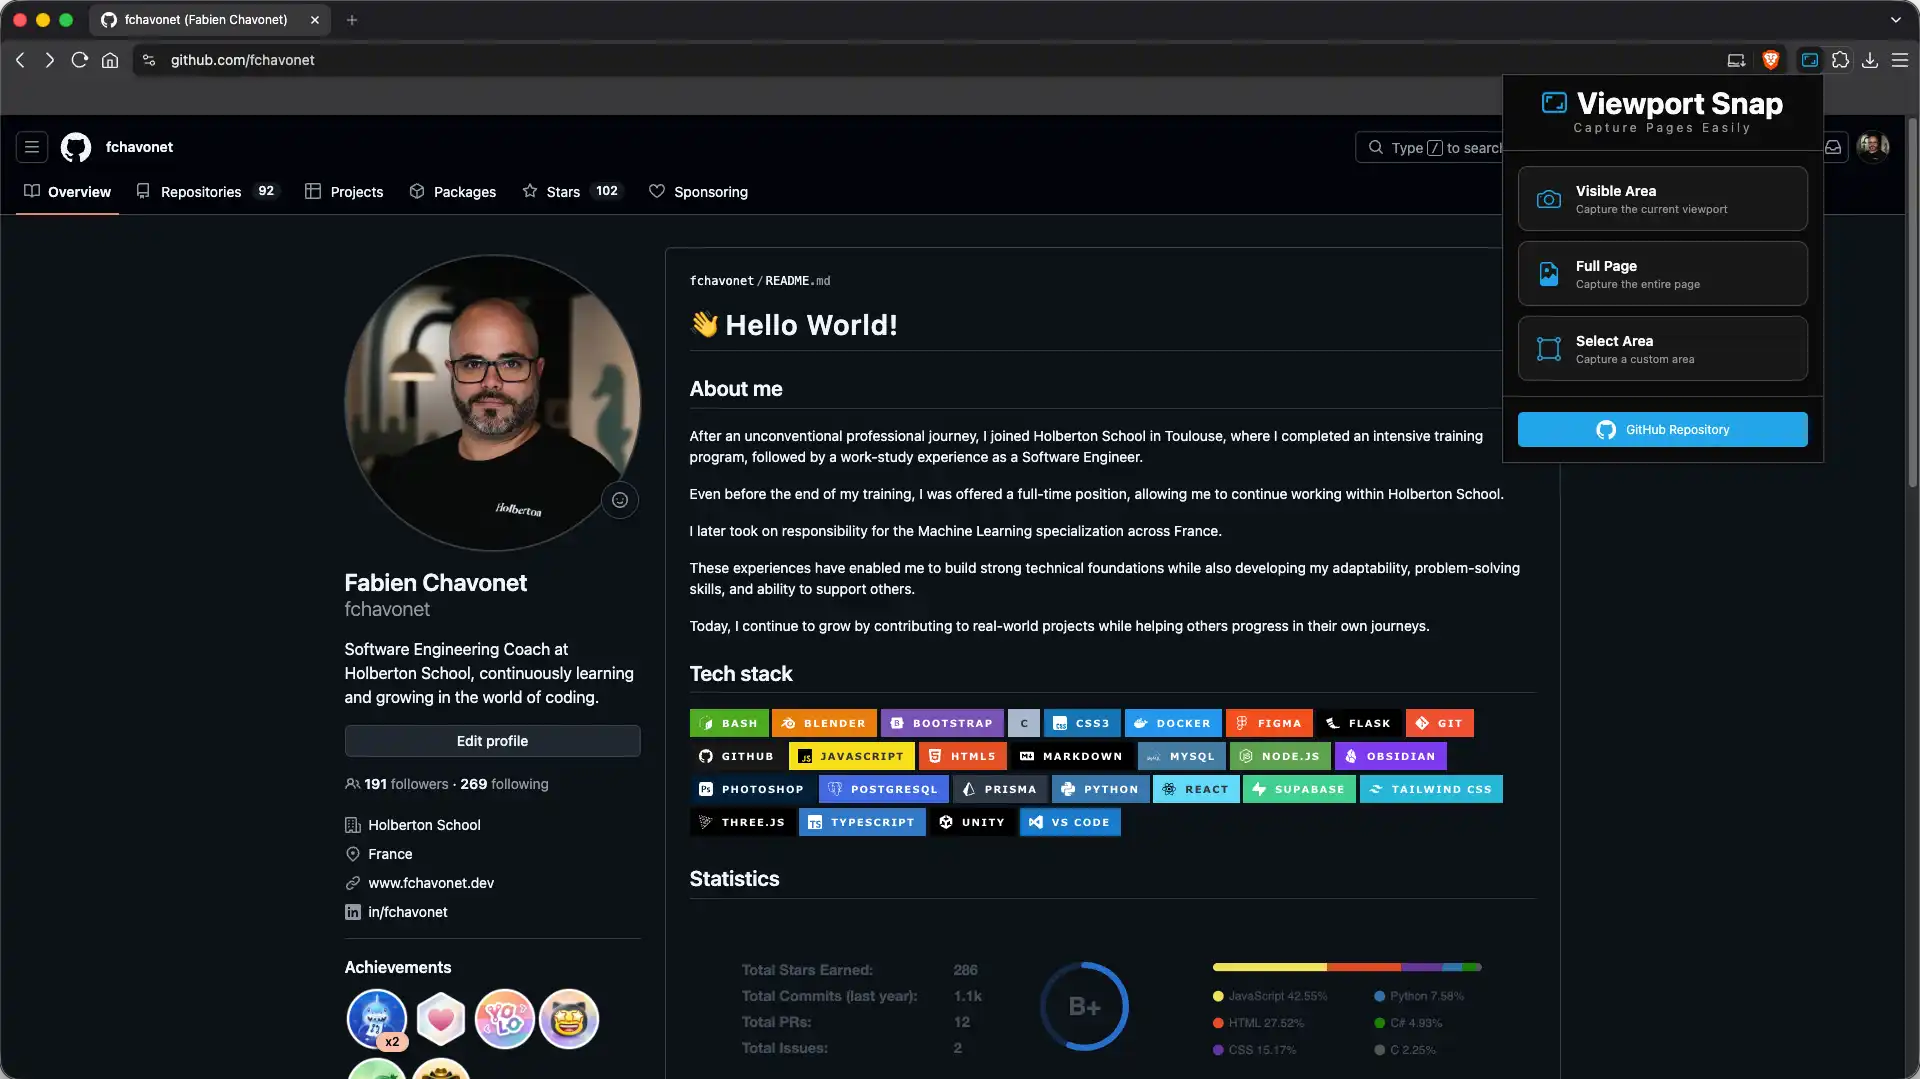
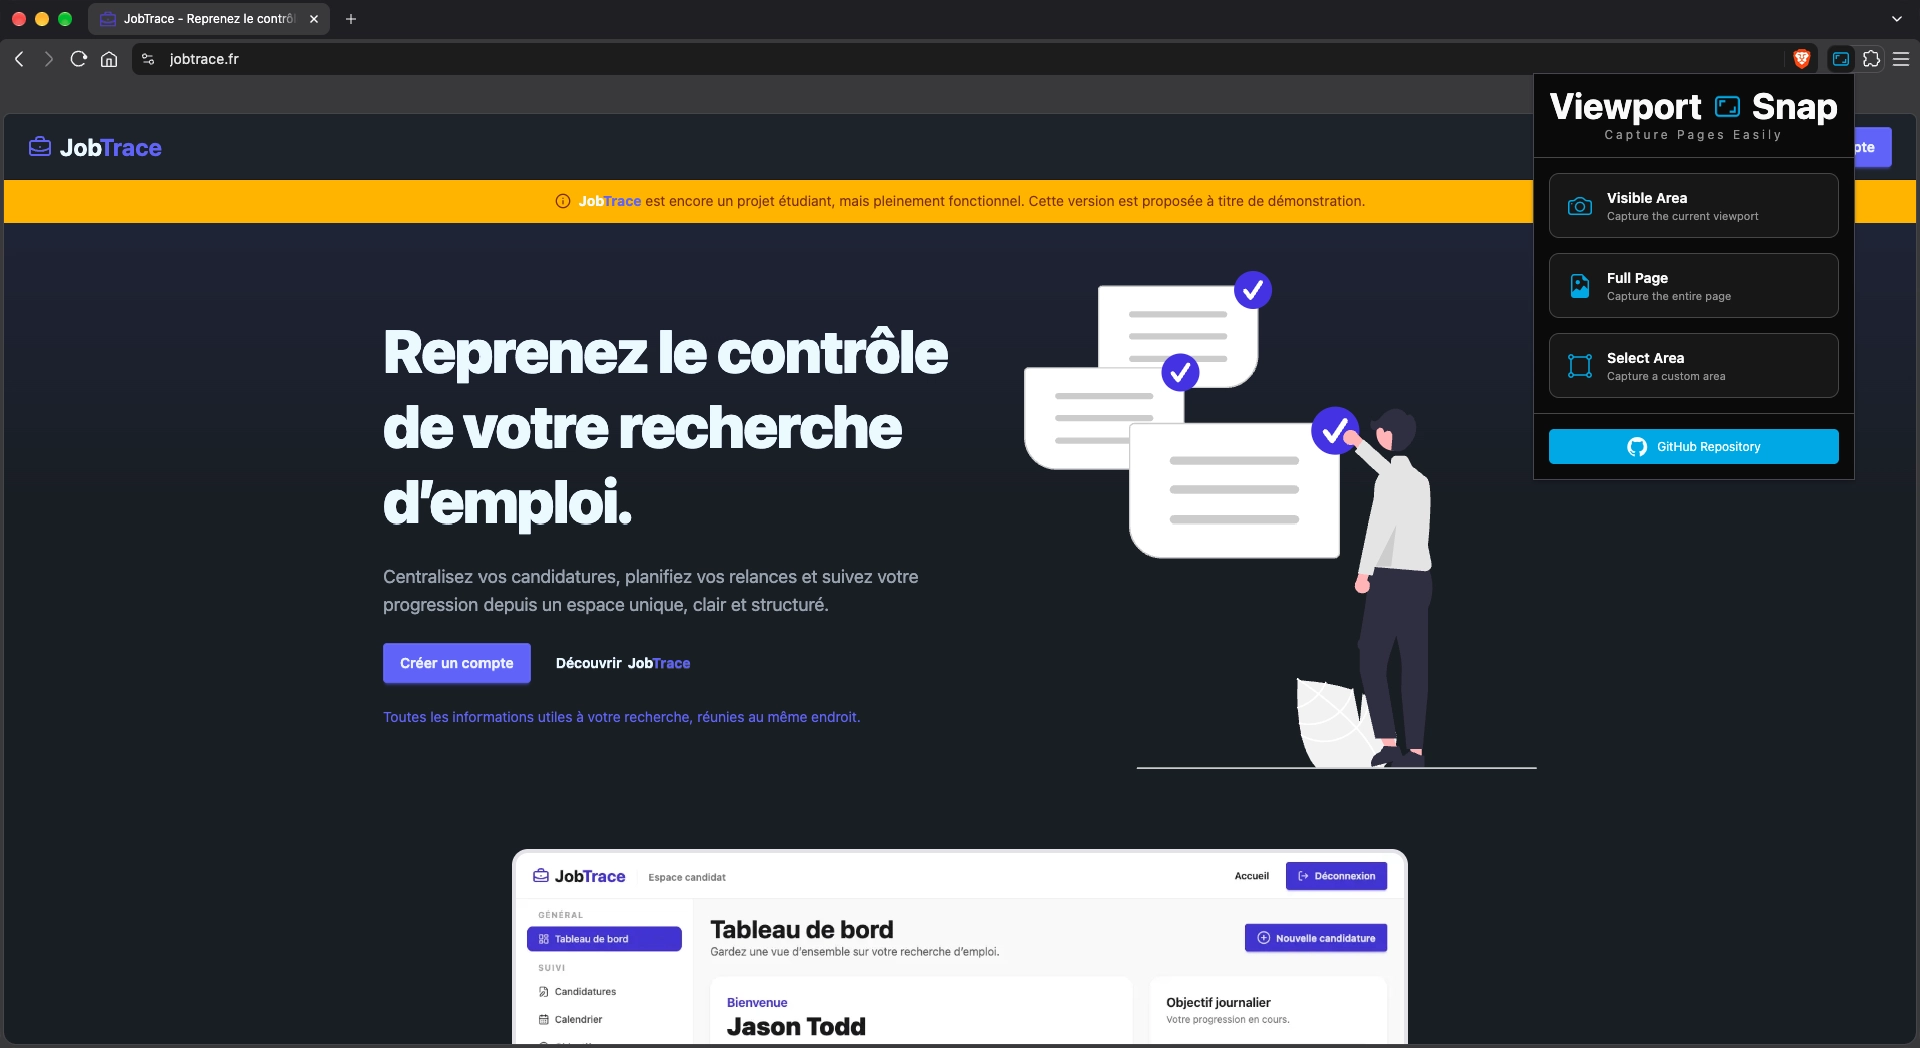
Update screenshots in the README.md file.

diff --git a/README.md b/README.md
@@ -111,4 +111,7 @@ You can also install the Chrome extension directly from the Chrome Web Store by 
 ## Author(s)
 
 **Fabien CHAVONET**
-- GitHub: [@fchavonet](https://github.com/fchavonet)
+- [GitHub](https://github.com/fchavonet)
+- [itch.io](https://fchavonet.itch.io/)
+- [LinkedIn](https://www.linkedin.com/in/fchavonet/)
+- [Portfolio](https://www.fchavonet.dev)
